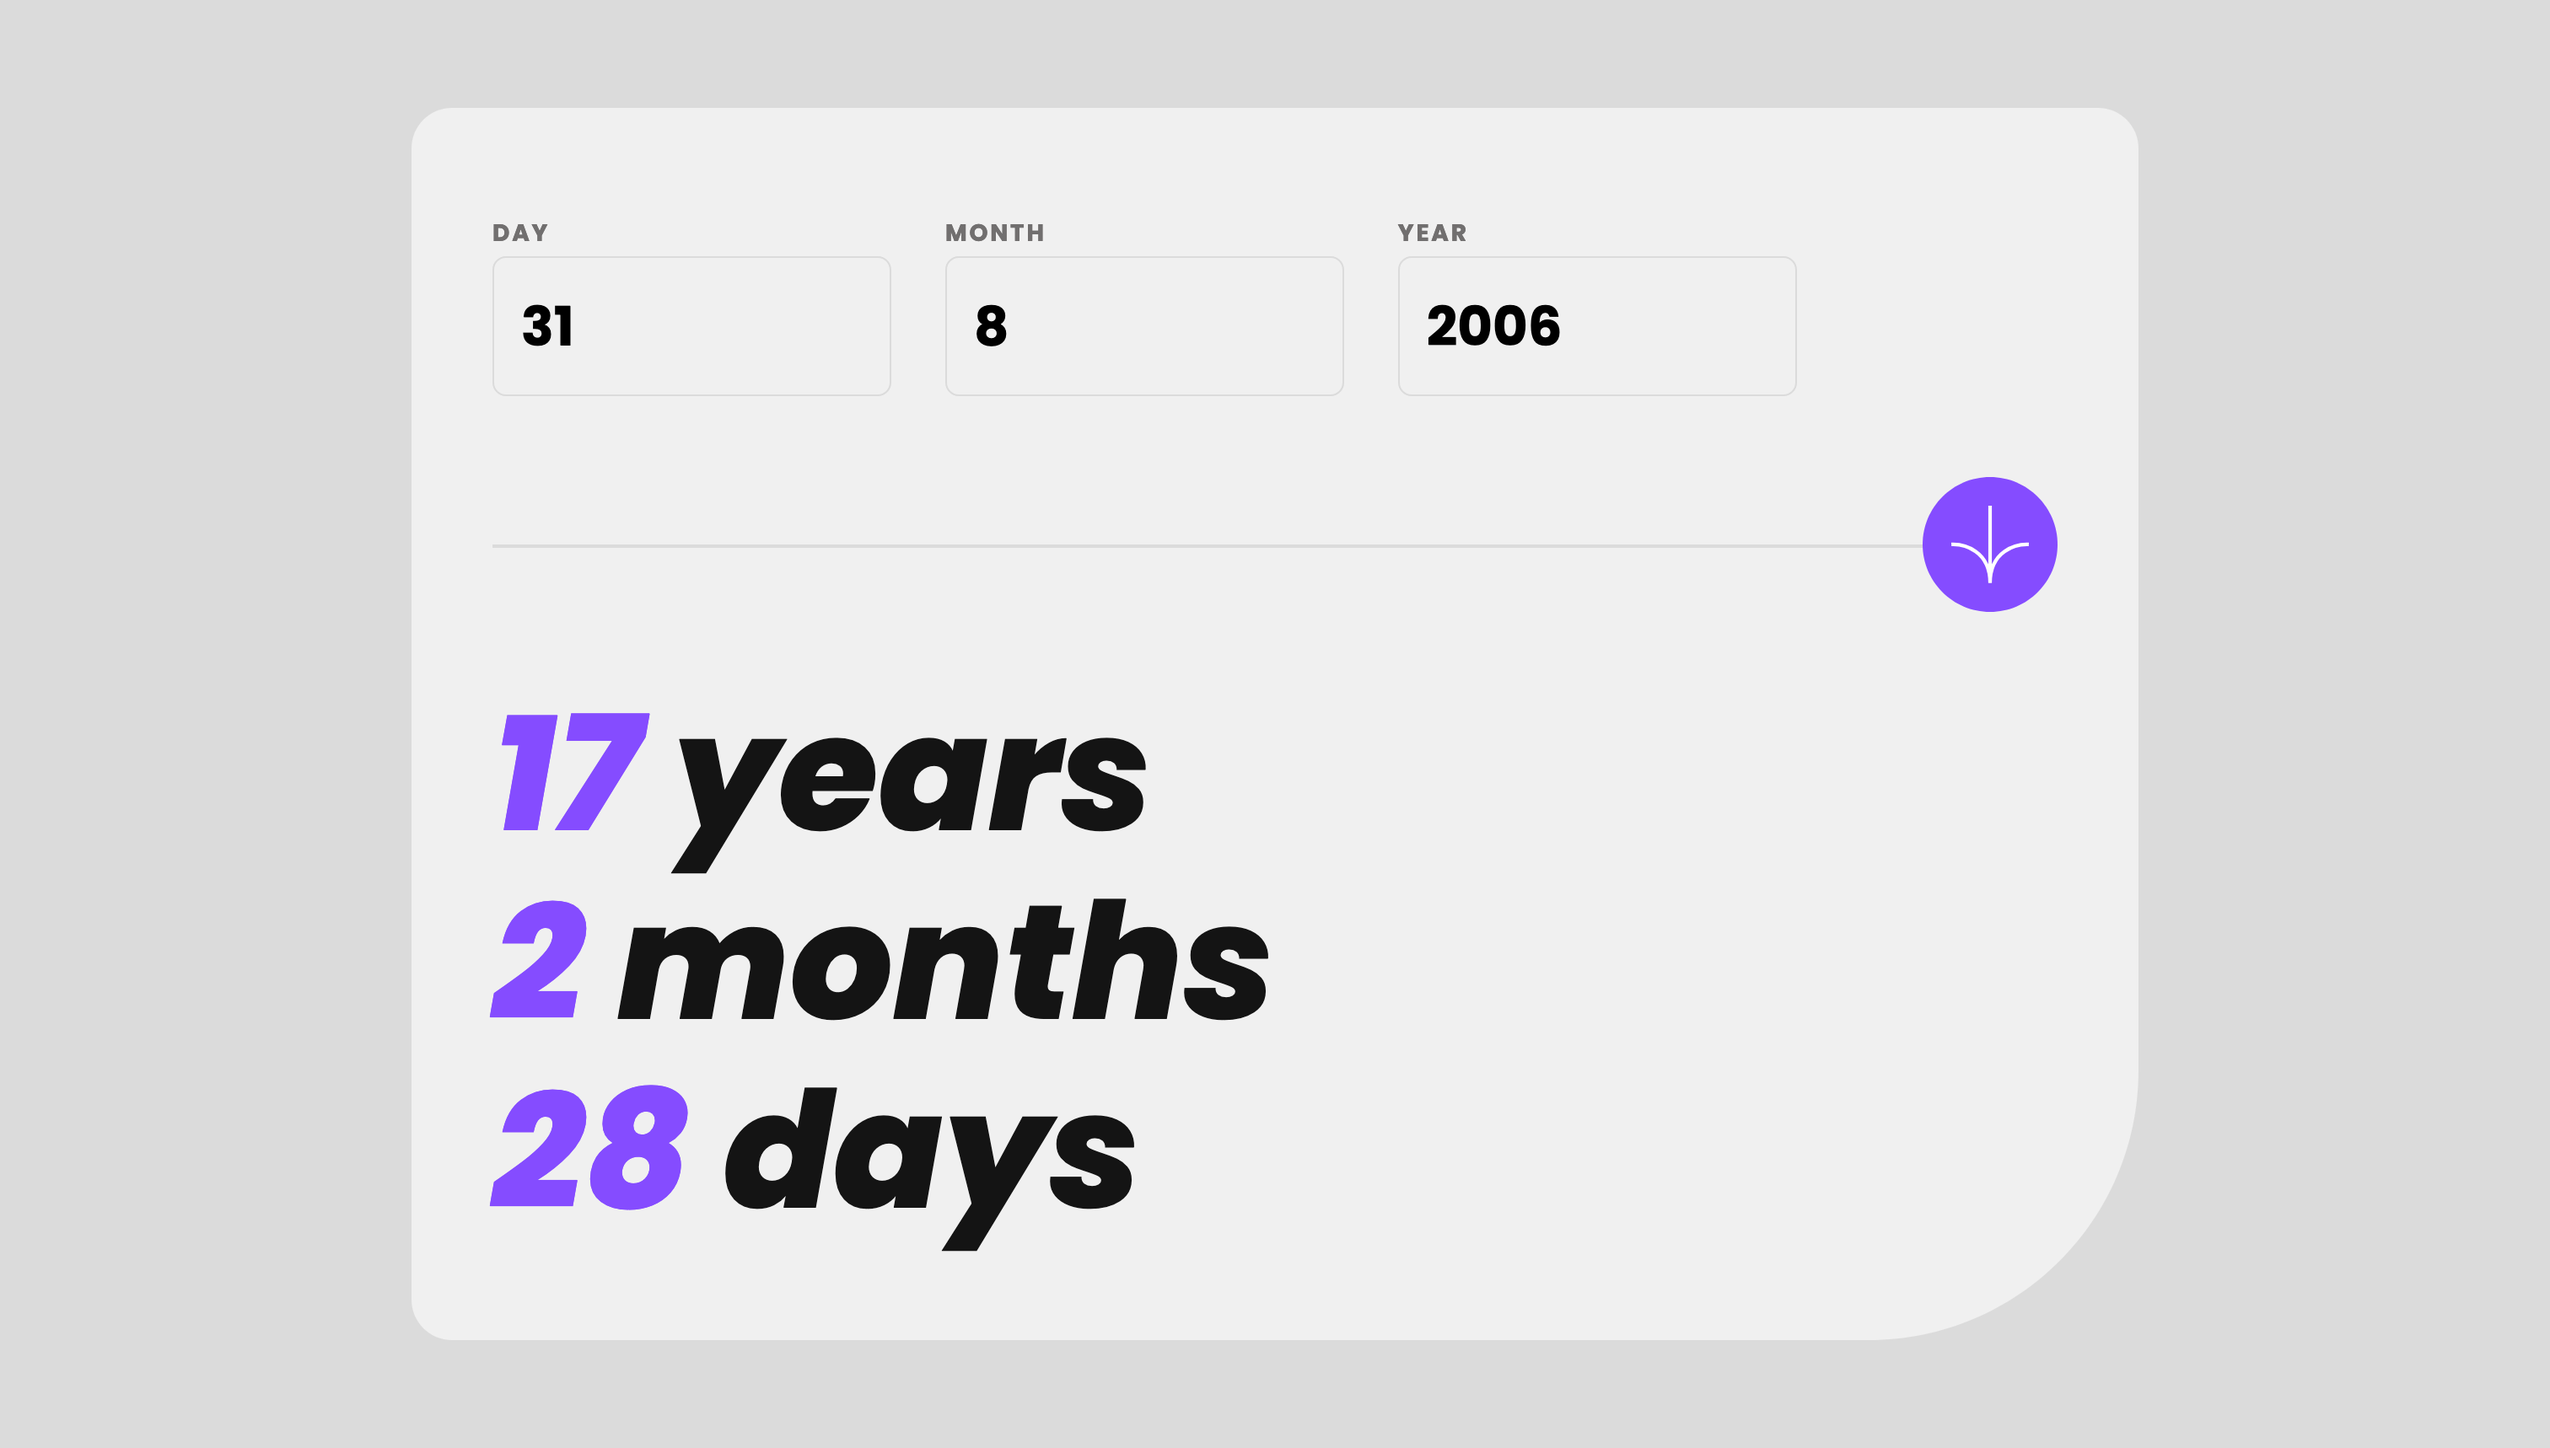
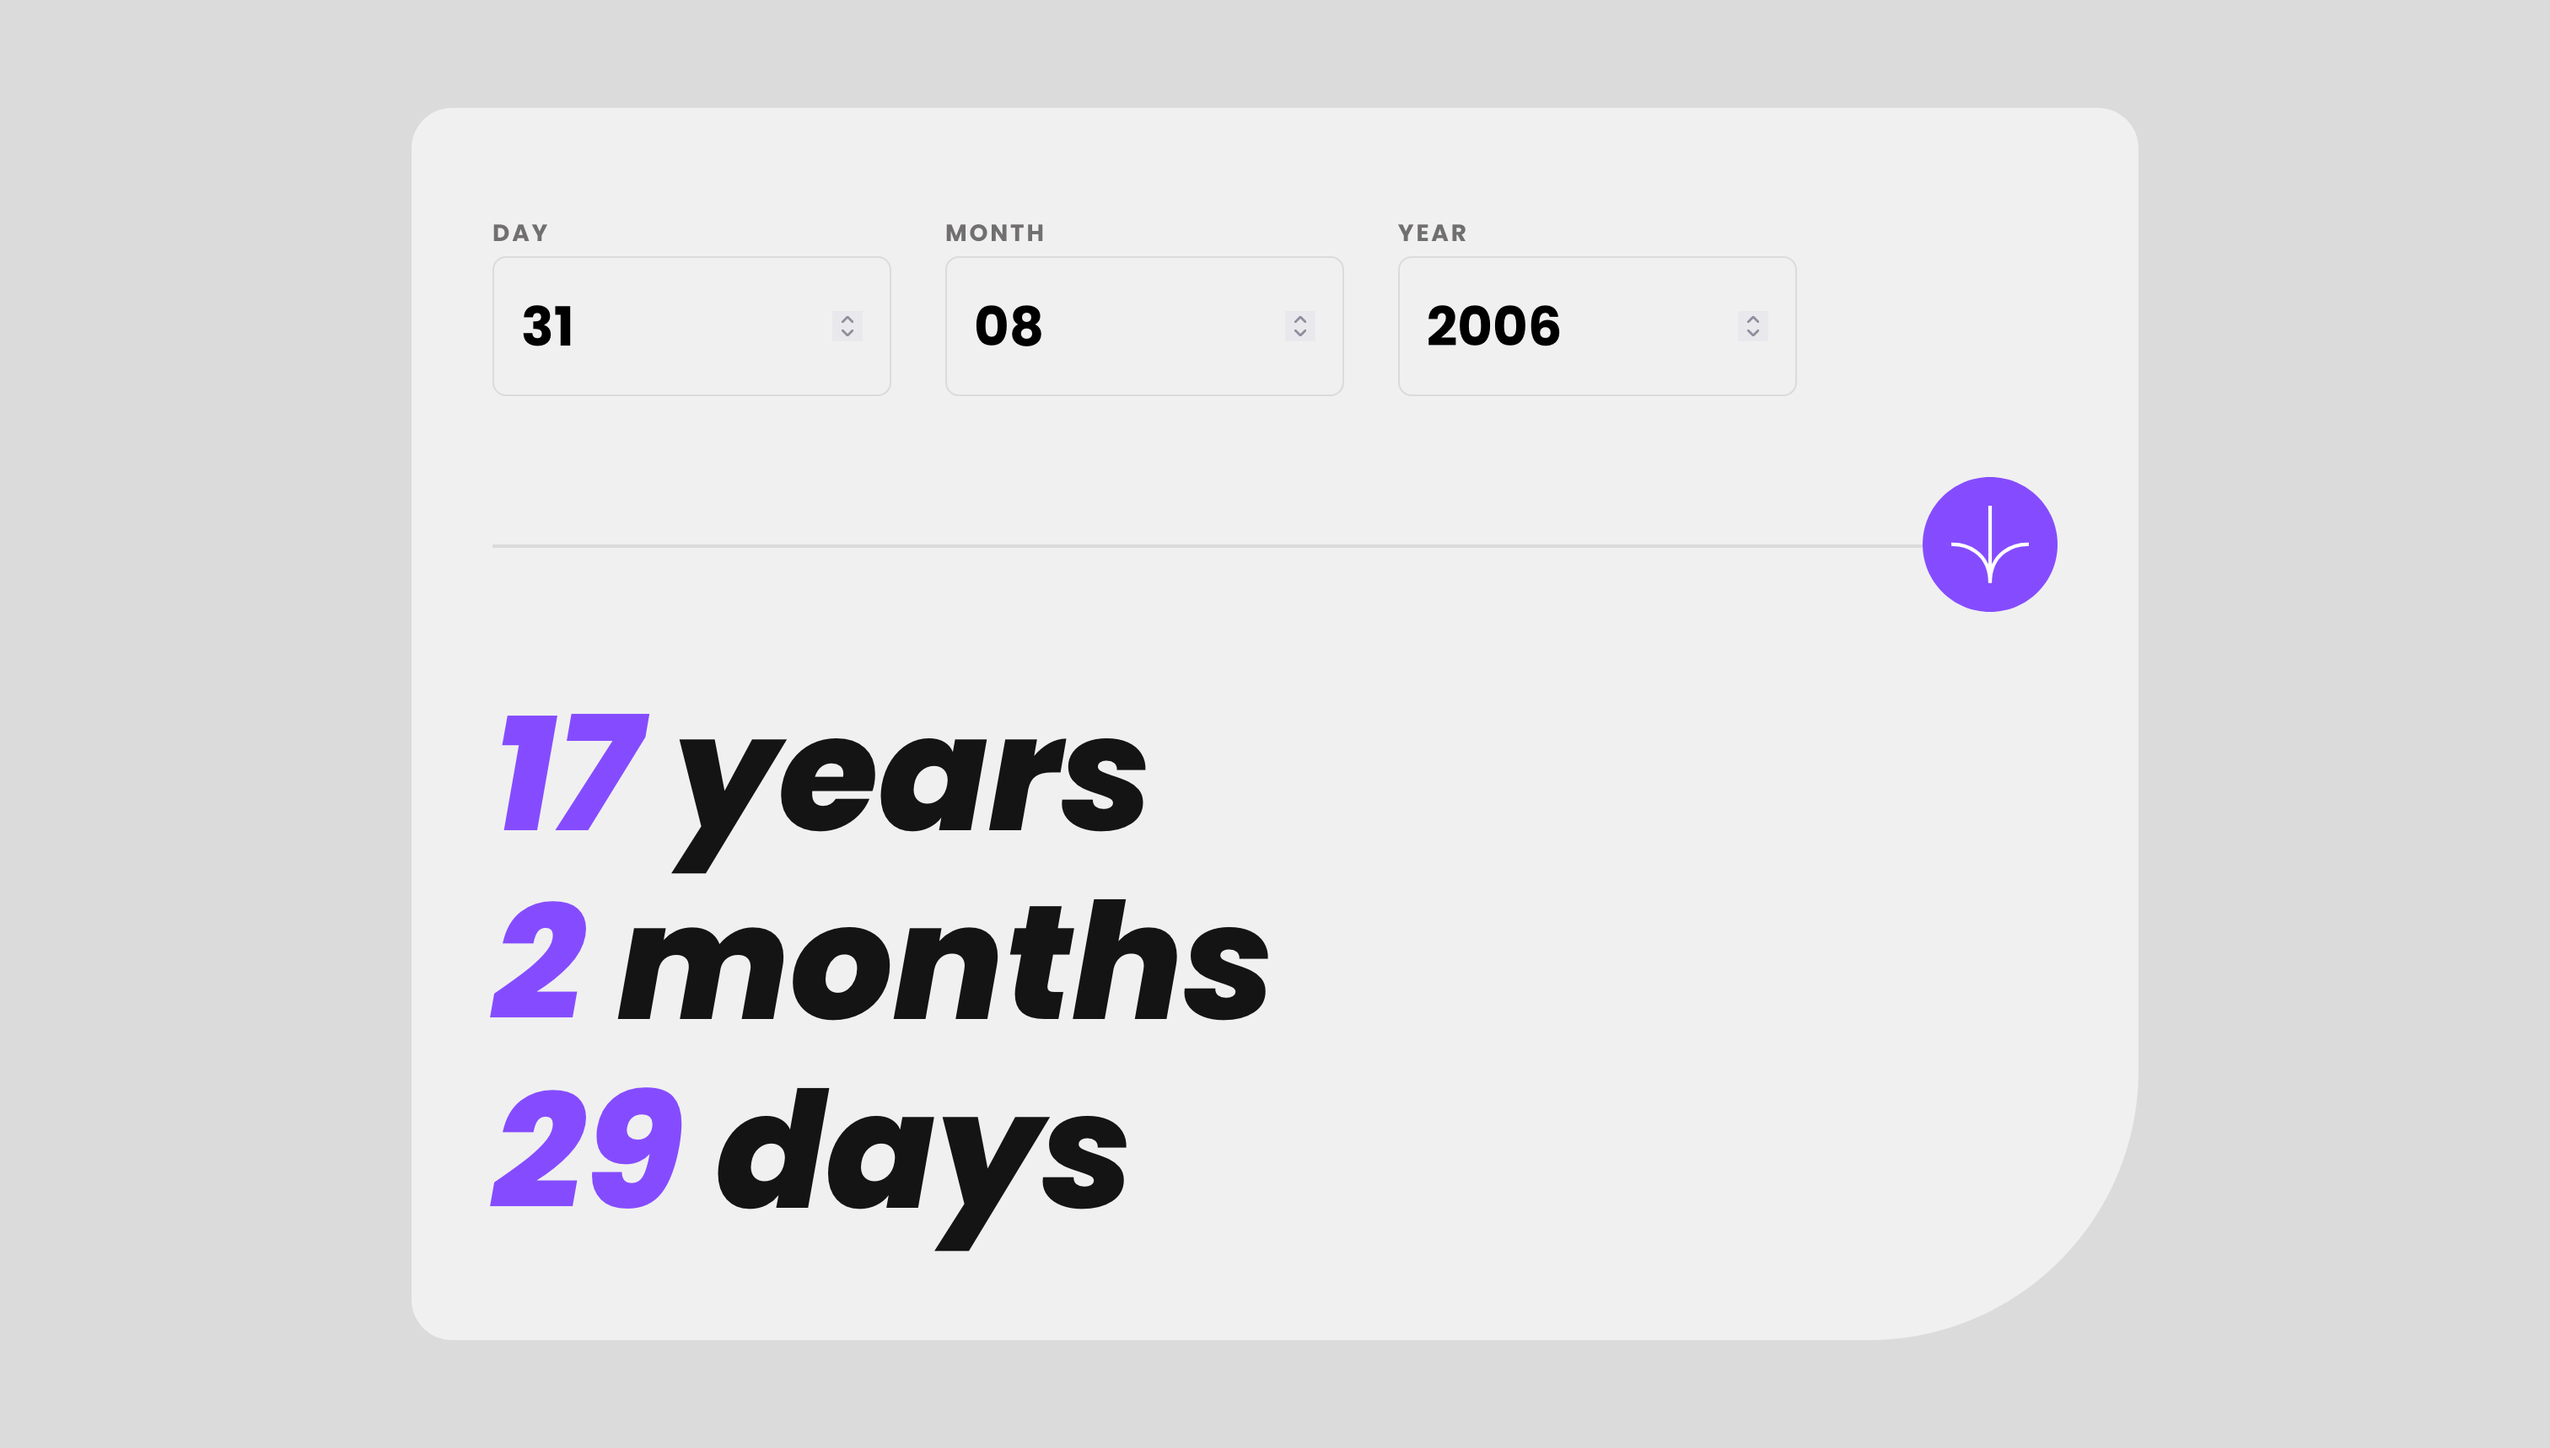
viewport metatags, input type text => number, empty state screenshot

Changed region(s): [[0.2176, 0.7404, 0.4663, 0.8638], [0.373, 0.2159, 0.4041, 0.2468]]

diff --git a/src/app/page.tsx b/src/app/page.tsx
@@ -1,4 +1,4 @@
-import type { Metadata } from 'next';
+import type { Metadata, Viewport } from 'next';
 import { AgeCalculator } from '~/components/age-calculator';
 
 const title = 'Frontend Mentor | Age calculator app';
@@ -13,8 +13,6 @@ export const metadata: Metadata = {
 
   keywords:
     'frontend mentor, frontend, mentor, fem, age calculator, age, calculator, challenge, next.js, nextjs, react, react-hook-form, zod, tailwind, tailwindcss',
-
-  themeColor: '#f0f0f0',
 
   title,
 
@@ -49,6 +47,13 @@ export const metadata: Metadata = {
   icons: {
     icon: '/favicon-32x32.png',
   },
+};
+
+export const viewport: Viewport = {
+  width: 'device-width',
+  initialScale: 1,
+  themeColor: '#f0f0f0',
+  colorScheme: 'light',
 };
 
 const Page = () => (

diff --git a/src/components/input.tsx b/src/components/input.tsx
@@ -29,7 +29,7 @@ export const Input = forwardRef<HTMLInputElement, Props>(
             'rounded-lg border border-light-grey bg-transparent p-3 text-base font-bold focus:outline-purple lg:p-4 lg:text-[32px]',
             (error || isRootError) && 'border-light-red',
           )}
-          type="text"
+          type="number"
           id={id}
           placeholder={placeholder}
           ref={ref}

diff --git a/README.md b/README.md
@@ -32,6 +32,7 @@ Users should be able to:
 
 ![Desktop](./screenshots/desktop.png)
 ![Mobile](./screenshots/mobile.png)
+![Mobile empty](./screenshots/mobile-empty.png)
 
 ### Links
 
